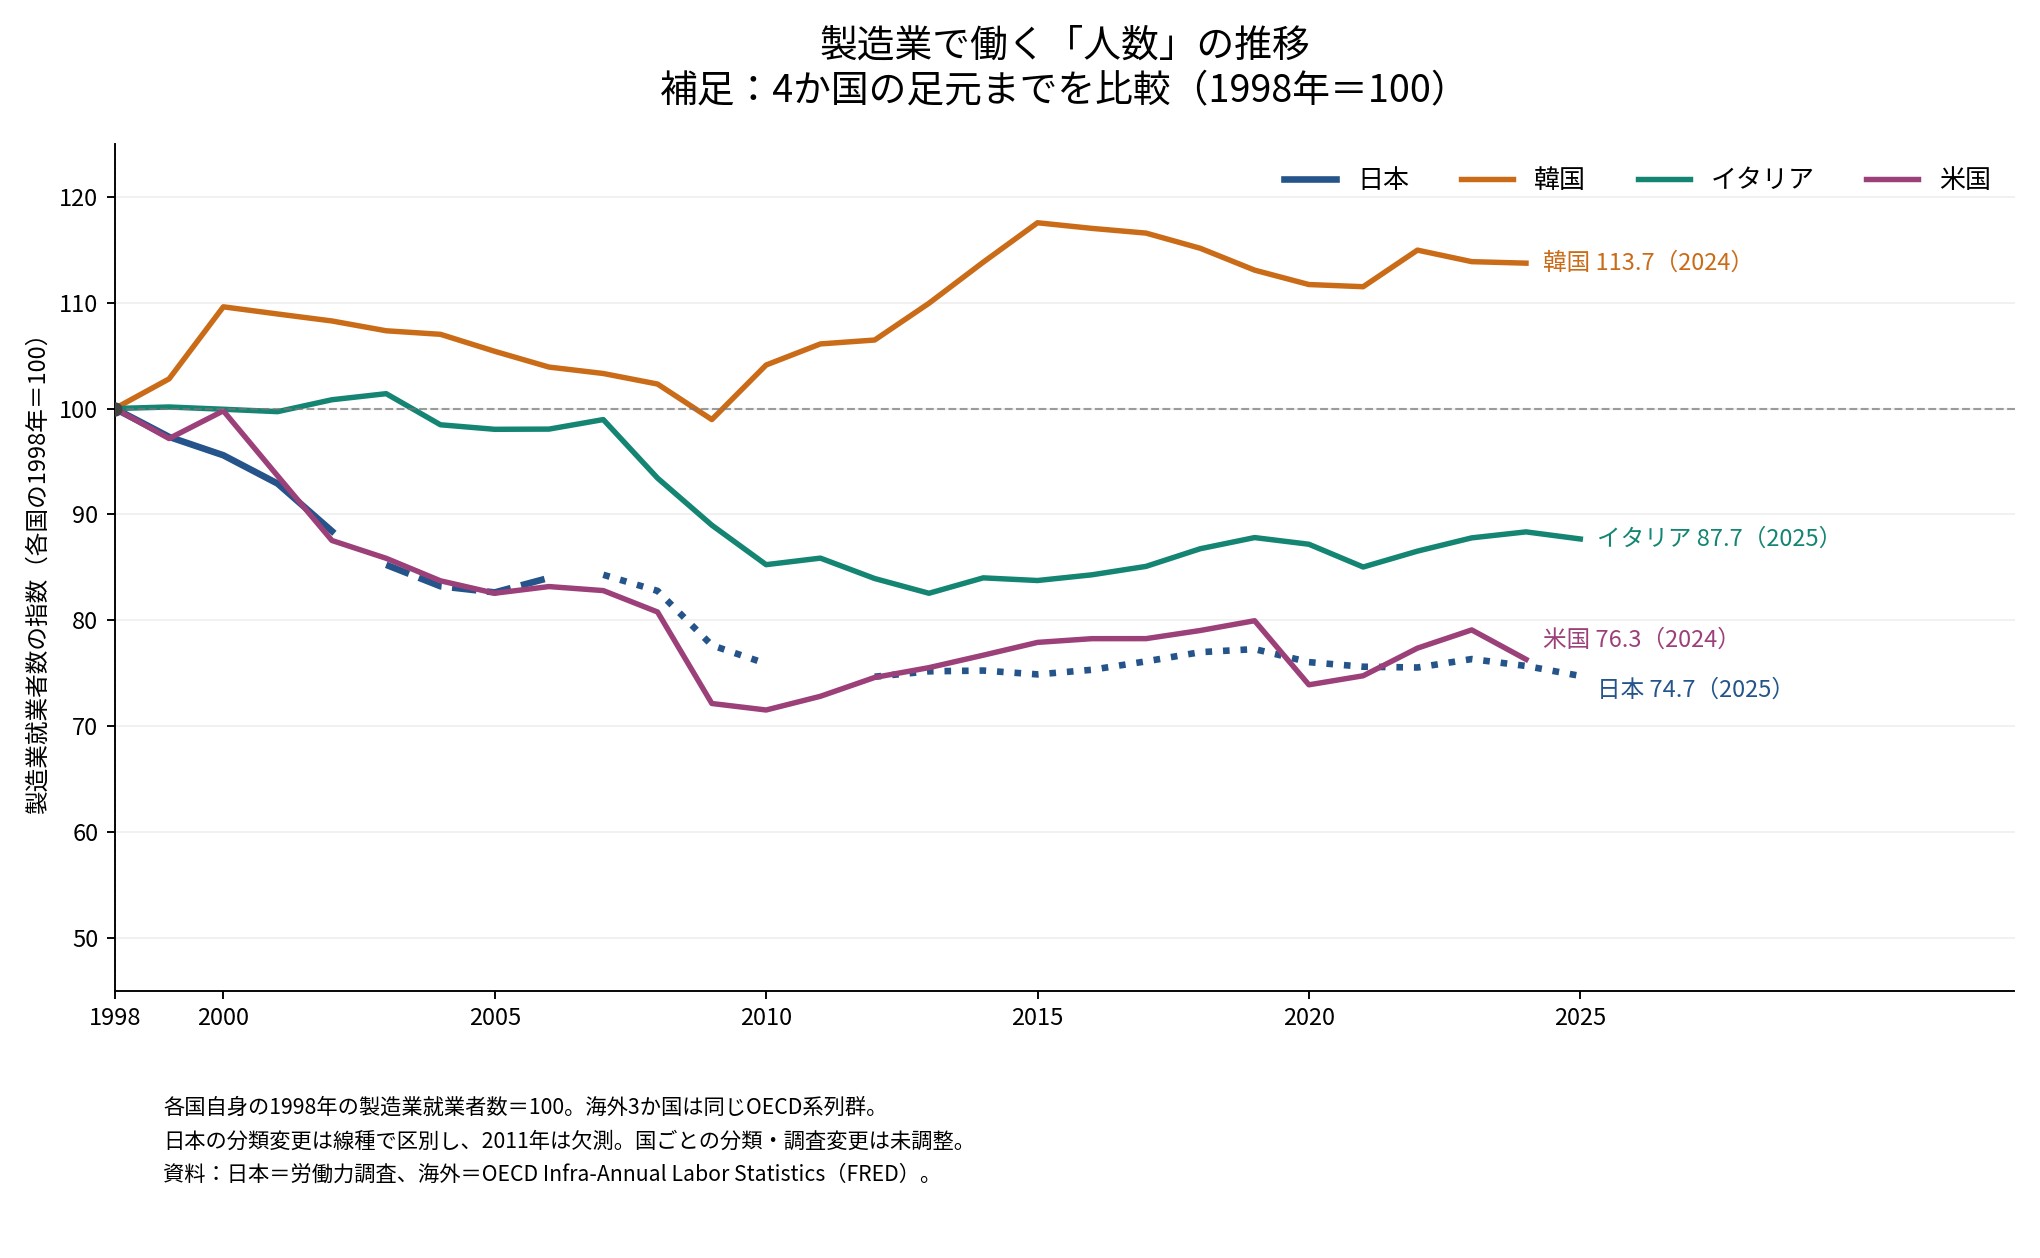
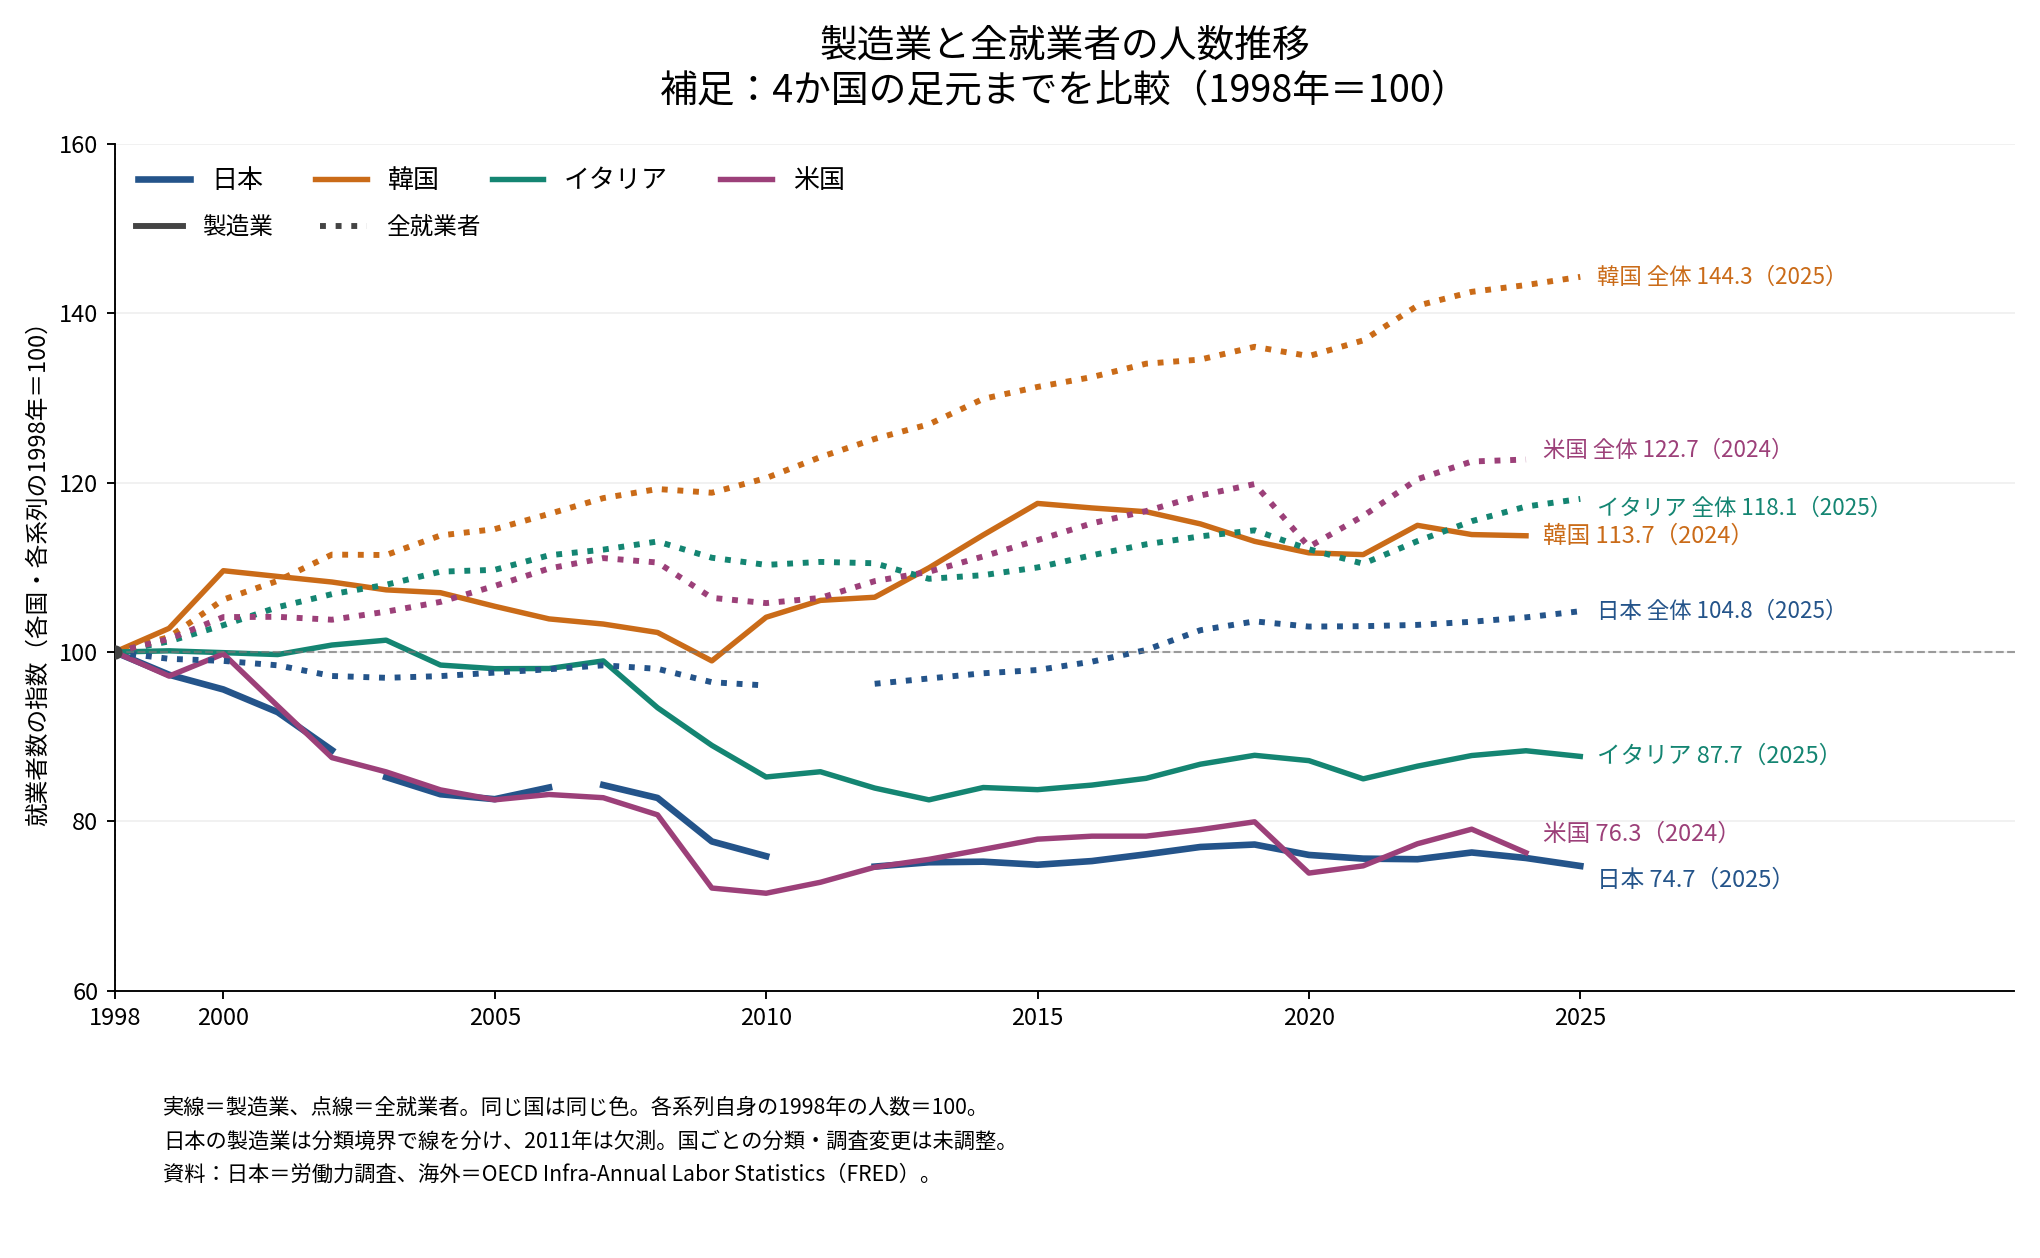
1998年基準の人数比較図に全就業者数を点線で追加

diff --git a/製造業の就業者シェア/code/03_employment_index.py b/製造業の就業者シェア/code/03_employment_index.py
@@ -10,6 +10,7 @@ import matplotlib
 matplotlib.use('Agg')
 import matplotlib.pyplot as plt
 from matplotlib import font_manager
+from matplotlib.lines import Line2D
 BASE = Path(__file__).resolve().parent
 font = os.environ.get('JAPANESE_FONT')
 if font:
@@ -42,7 +43,7 @@ for base in [1992,1998]:
         if suffix=='第11回': s=s.loc[2003:2006]
         s=s.reindex(range(s.index.min(),s.index.max()+1))
         index=s/segments['第10回'].loc[base]*100
-        ax.plot(index.index,index,color=colors['日本'],ls=style,lw=2.8,label='日本' if suffix=='第10回' else '_nolegend_')
+        ax.plot(index.index,index,color=colors['日本'],ls=style if base==1992 else '-',lw=2.8,label='日本' if suffix=='第10回' else '_nolegend_')
         output.extend({'基準年':base,'国':'日本','系列':suffix,'年':int(y),'就業者数_人':n*10000,'指数':index.loc[y]} for y,n in s.items())
     for name in ['韓国','イタリア','米国']:
         s=data[name].dropna().loc[:2025]
@@ -60,15 +61,31 @@ for base in [1992,1998]:
         print(base,name,'base persons',s.loc[base],'end',end,round(val,2),'2024',round(index.get(2024,float('nan')),2))
     jp_last=segments['第12-14回'].loc[2025]/segments['第10回'].loc[base]*100
     ax.annotate(f'日本 {jp_last:.1f}（2025）',(2025,jp_last),xytext=(7,-6 if base==1998 else 0),textcoords='offset points',fontsize=10,color=colors['日本'],va='center')
+    if base == 1998:
+        totals = {name:read(f'LFEMTTTT{code}A647N') for name,code in [('韓国','KR'),('イタリア','IT'),('米国','US')]}
+        totals['日本'] = pd.concat([jp['全産業_旧表'].loc[:2006], jp['全産業_新表'].loc[2007:]])*10000
+        for name,s in totals.items():
+            s=s.loc[1998:2025].reindex(range(1998,int(s.loc[1998:2025].last_valid_index())+1))
+            index=s/s.loc[1998]*100
+            assert index.loc[1998]==100
+            ax.plot(index.index,index,color=colors[name],ls=':',lw=2.5)
+            end=int(index.last_valid_index());val=index.loc[end]
+            offset=-4 if name=='イタリア' else (4 if name=='米国' else 0)
+            ax.annotate(f'{name} 全体 {val:.1f}（{end}）',(end,val),xytext=(7,offset),textcoords='offset points',fontsize=9.5,color=colors[name],va='center')
+            output.extend({'基準年':base,'国':name,'系列':'全就業者','年':int(y),'就業者数_人':n,'指数':index.loc[y]} for y,n in s.items())
+            print('total',name,end,round(val,2))
     start=1970 if base==1992 else 1998
-    ax.set_xlim(start,2033);ax.set_ylim(45,125)
+    ax.set_xlim(start,2033);ax.set_ylim(45,125) if base==1992 else ax.set_ylim(60,160)
     ax.set_xticks([1970,1980,1990,1992,2000,2010,2020,2025] if base==1992 else [1998,2000,2005,2010,2015,2020,2025])
     ax.axhline(100,color='#777777',lw=.9,ls='--',alpha=.7)
     ax.axvline(base,color='#888888',lw=.8,ls=':')
     ax.scatter([base],[100],color='#444444',s=25,zorder=4)
-    ax.set_ylabel(f'製造業就業者数の指数（各国の{base}年＝100）')
-    ax.set_title('製造業で働く「人数」の推移\n'+('日本の人数ピーク・1992年を各国とも100に' if base==1992 else '補足：4か国の足元までを比較（1998年＝100）'),fontsize=16,pad=18)
-    ax.legend(loc='upper right',ncol=4,frameon=False,fontsize=11)
+    ax.set_ylabel(f'製造業就業者数の指数（各国の{base}年＝100）' if base==1992 else f'就業者数の指数（各国・各系列の{base}年＝100）')
+    ax.set_title(('製造業で働く「人数」の推移\n' if base==1992 else '製造業と全就業者の人数推移\n')+('日本の人数ピーク・1992年を各国とも100に' if base==1992 else '補足：4か国の足元までを比較（1998年＝100）'),fontsize=16,pad=18)
+    country_legend=ax.legend(loc='upper left' if base==1998 else 'upper right',ncol=4,frameon=False,fontsize=11)
+    if base==1998:
+        ax.add_artist(country_legend)
+        ax.legend(handles=[Line2D([0],[0],color='#444',lw=2.5,label='製造業'),Line2D([0],[0],color='#444',lw=2.5,ls=':',label='全就業者')],loc='upper left',bbox_to_anchor=(0,.94),ncol=2,frameon=False,fontsize=10)
     ax.grid(axis='y',alpha=.18);ax.spines[['top','right']].set_visible(False)
     if base==1992:
         notes=['日本の基準値は1,569万人。各国自身の1992年の人数で指数化（シェアではない）。',
@@ -76,8 +93,8 @@ for base in [1992,1998]:
                '日本の分類変更は線種で区別し、2011年は欠測。他国も分類・調査変更に注意。',
                '資料：日本＝労働力調査、韓国・米国＝OECD（FRED）、イタリア＝BLS（FRED）。']
     else:
-        notes=['各国自身の1998年の製造業就業者数＝100。海外3か国は同じOECD系列群。',
-               '日本の分類変更は線種で区別し、2011年は欠測。国ごとの分類・調査変更は未調整。',
+        notes=['実線＝製造業、点線＝全就業者。同じ国は同じ色。各系列自身の1998年の人数＝100。',
+               '日本の製造業は分類境界で線を分け、2011年は欠測。国ごとの分類・調査変更は未調整。',
                '資料：日本＝労働力調査、海外＝OECD Infra-Annual Labor Statistics（FRED）。']
     for i,line in enumerate(notes):fig.text(.08,.115-i*.027,line,fontsize=9)
     fig.tight_layout(rect=(0,.16,1,1))

diff --git a/製造業の就業者シェア/01_製造業で働く人の割合は1973年がピークだった.md b/製造業の就業者シェア/01_製造業で働く人の割合は1973年がピークだった.md
@@ -81,11 +81,15 @@ JILPT のページ：[https://www.jil.go.jp/kokunai/statistics/chart/html/g0004.
 
 ### 補足：4か国を足元まで比べる1998年基準
 
-![製造業就業者数の比較：各国の1998年＝100](03_chart_count_1998.png)
+![製造業と全就業者数の比較：各国・各系列の1998年＝100](03_chart_count_1998.png)
+
+**実線は製造業、点線は全就業者数**であり、同じ国は同じ色で示す。製造業と全就業者のそれぞれについて、その国の1998年の人数を100にした。全就業者の分母に製造業の人数を使っているわけではない。日本の製造業は分類境界で線を分け、2011年は両系列とも欠測を維持した。
 
 1998年を100にすれば、海外3か国とも前のシェア図と同じOECDの人数系列で比較できる。直近は韓国113.7（2024年）、イタリア87.7（2025年）、米国76.3（2024年）、日本74.7（2025年）。韓国は1998年の人数が落ち込んでいるため、1992年基準とは見え方が変わる。基準年は比較の結論を左右するので、主図の1992年基準と併せて読む。
 
-取得・再現方法：日本と韓国・米国、および補足図のイタリアは既存の保存CSVを使用。イタリア旧系列のみ2026年10月18日に `https://fred.stlouisfed.org/graph/fredgraph.csv?id=ITAEMFGNA` から取得し、`code/international_raw/ITAEMFGNA.csv` に保存した。旧系列の千人単位を人単位に変換してから指数化。再作図コードは `code/03_employment_index.py`、人数と指数の一覧は `code/03_employment_index.csv`。pandas、matplotlib、日本語フォントが必要で、フォントを指定する場合は `JAPANESE_FONT=/path/to/font.otf python code/03_employment_index.py` を実行する。
+全就業者数の直近の指数は韓国144.3（2025年）、米国122.7（2024年）、イタリア118.1（2025年）、日本104.8（2025年）。韓国では製造業の人数も増えているが全体の伸びがさらに大きく、日本では全体が緩やかに増える一方で製造業の人数が減ったことが分かる。系列により最終年が異なるため、末端同士の比較では年にも注意する。
+
+取得・再現方法：日本と韓国・米国、および補足図のイタリアは既存の保存CSVを使用。 全就業者数は日本の `01_mfg_share.csv` の旧表（2006年まで）・新表（2007年以降）と、海外の `LFEMTTTTKRA647N`・`LFEMTTTTITA647N`・`LFEMTTTTUSA647N` の保存CSVから計算した。イタリア旧系列のみ2026年10月18日に `https://fred.stlouisfed.org/graph/fredgraph.csv?id=ITAEMFGNA` から取得し、`code/international_raw/ITAEMFGNA.csv` に保存した。旧系列の千人単位を人単位に変換してから指数化。再作図コードは `code/03_employment_index.py`、人数と指数の一覧は `code/03_employment_index.csv`。pandas、matplotlib、日本語フォントが必要で、フォントを指定する場合は `JAPANESE_FONT=/path/to/font.otf python code/03_employment_index.py` を実行する。
 
 ## データから見えること
 
